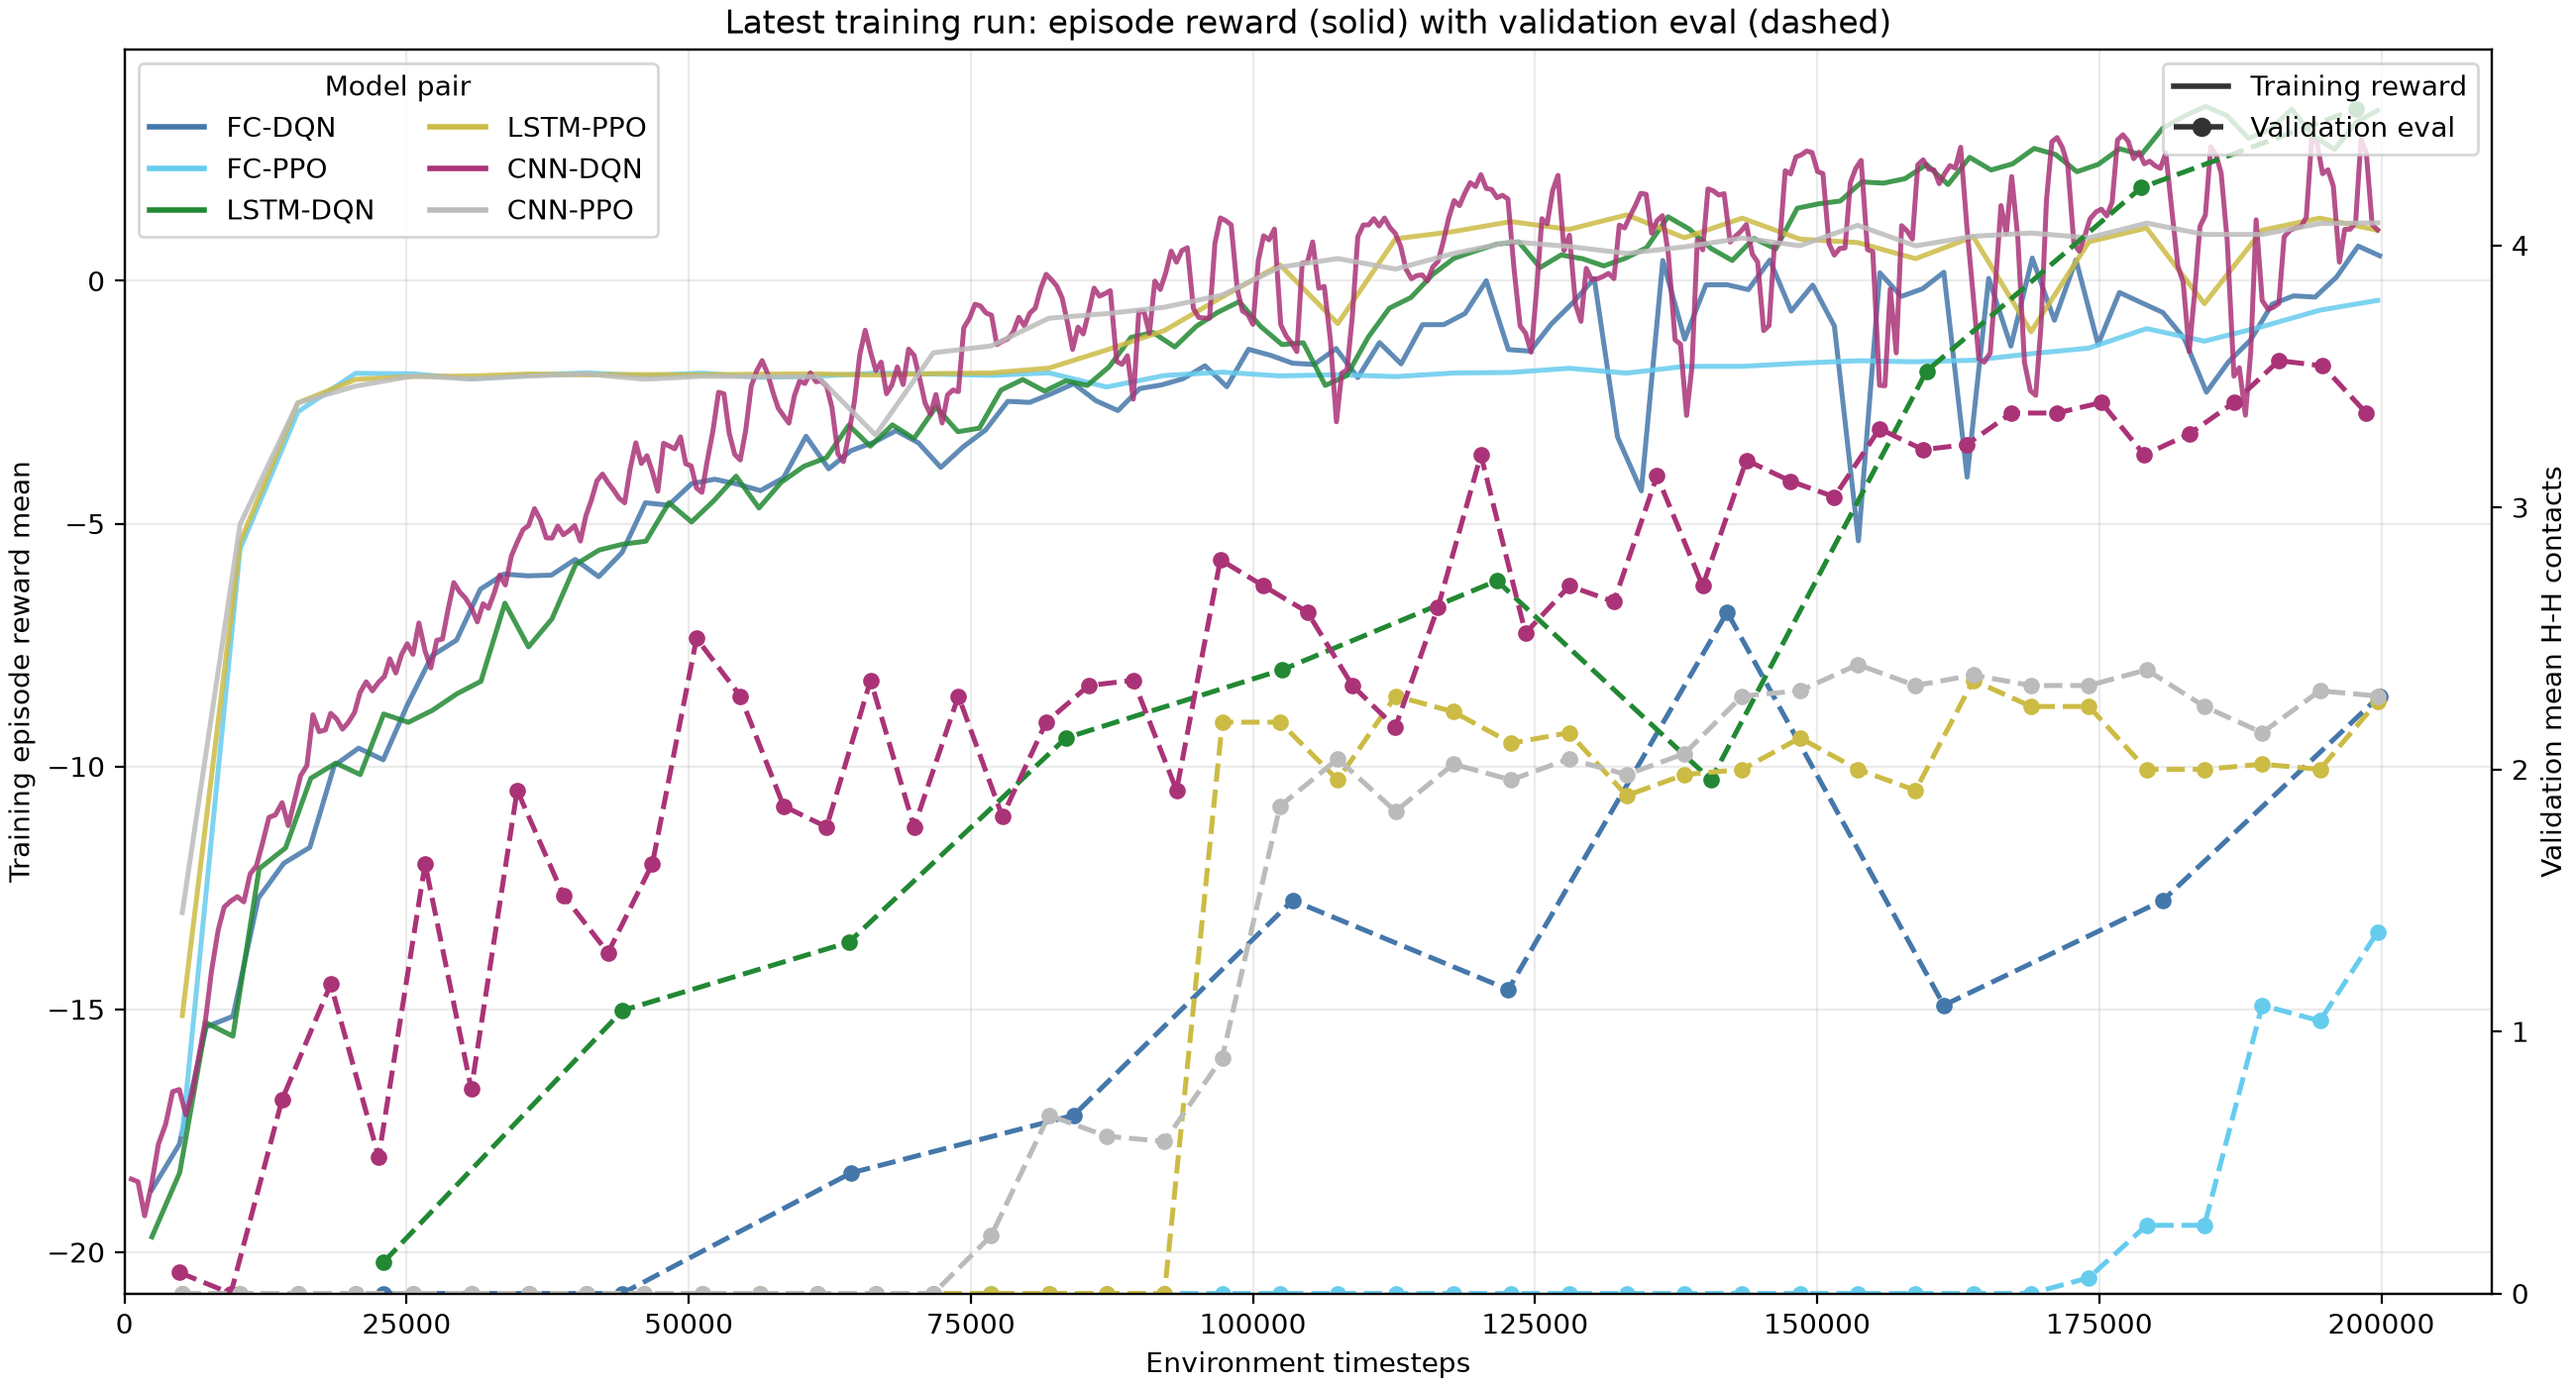
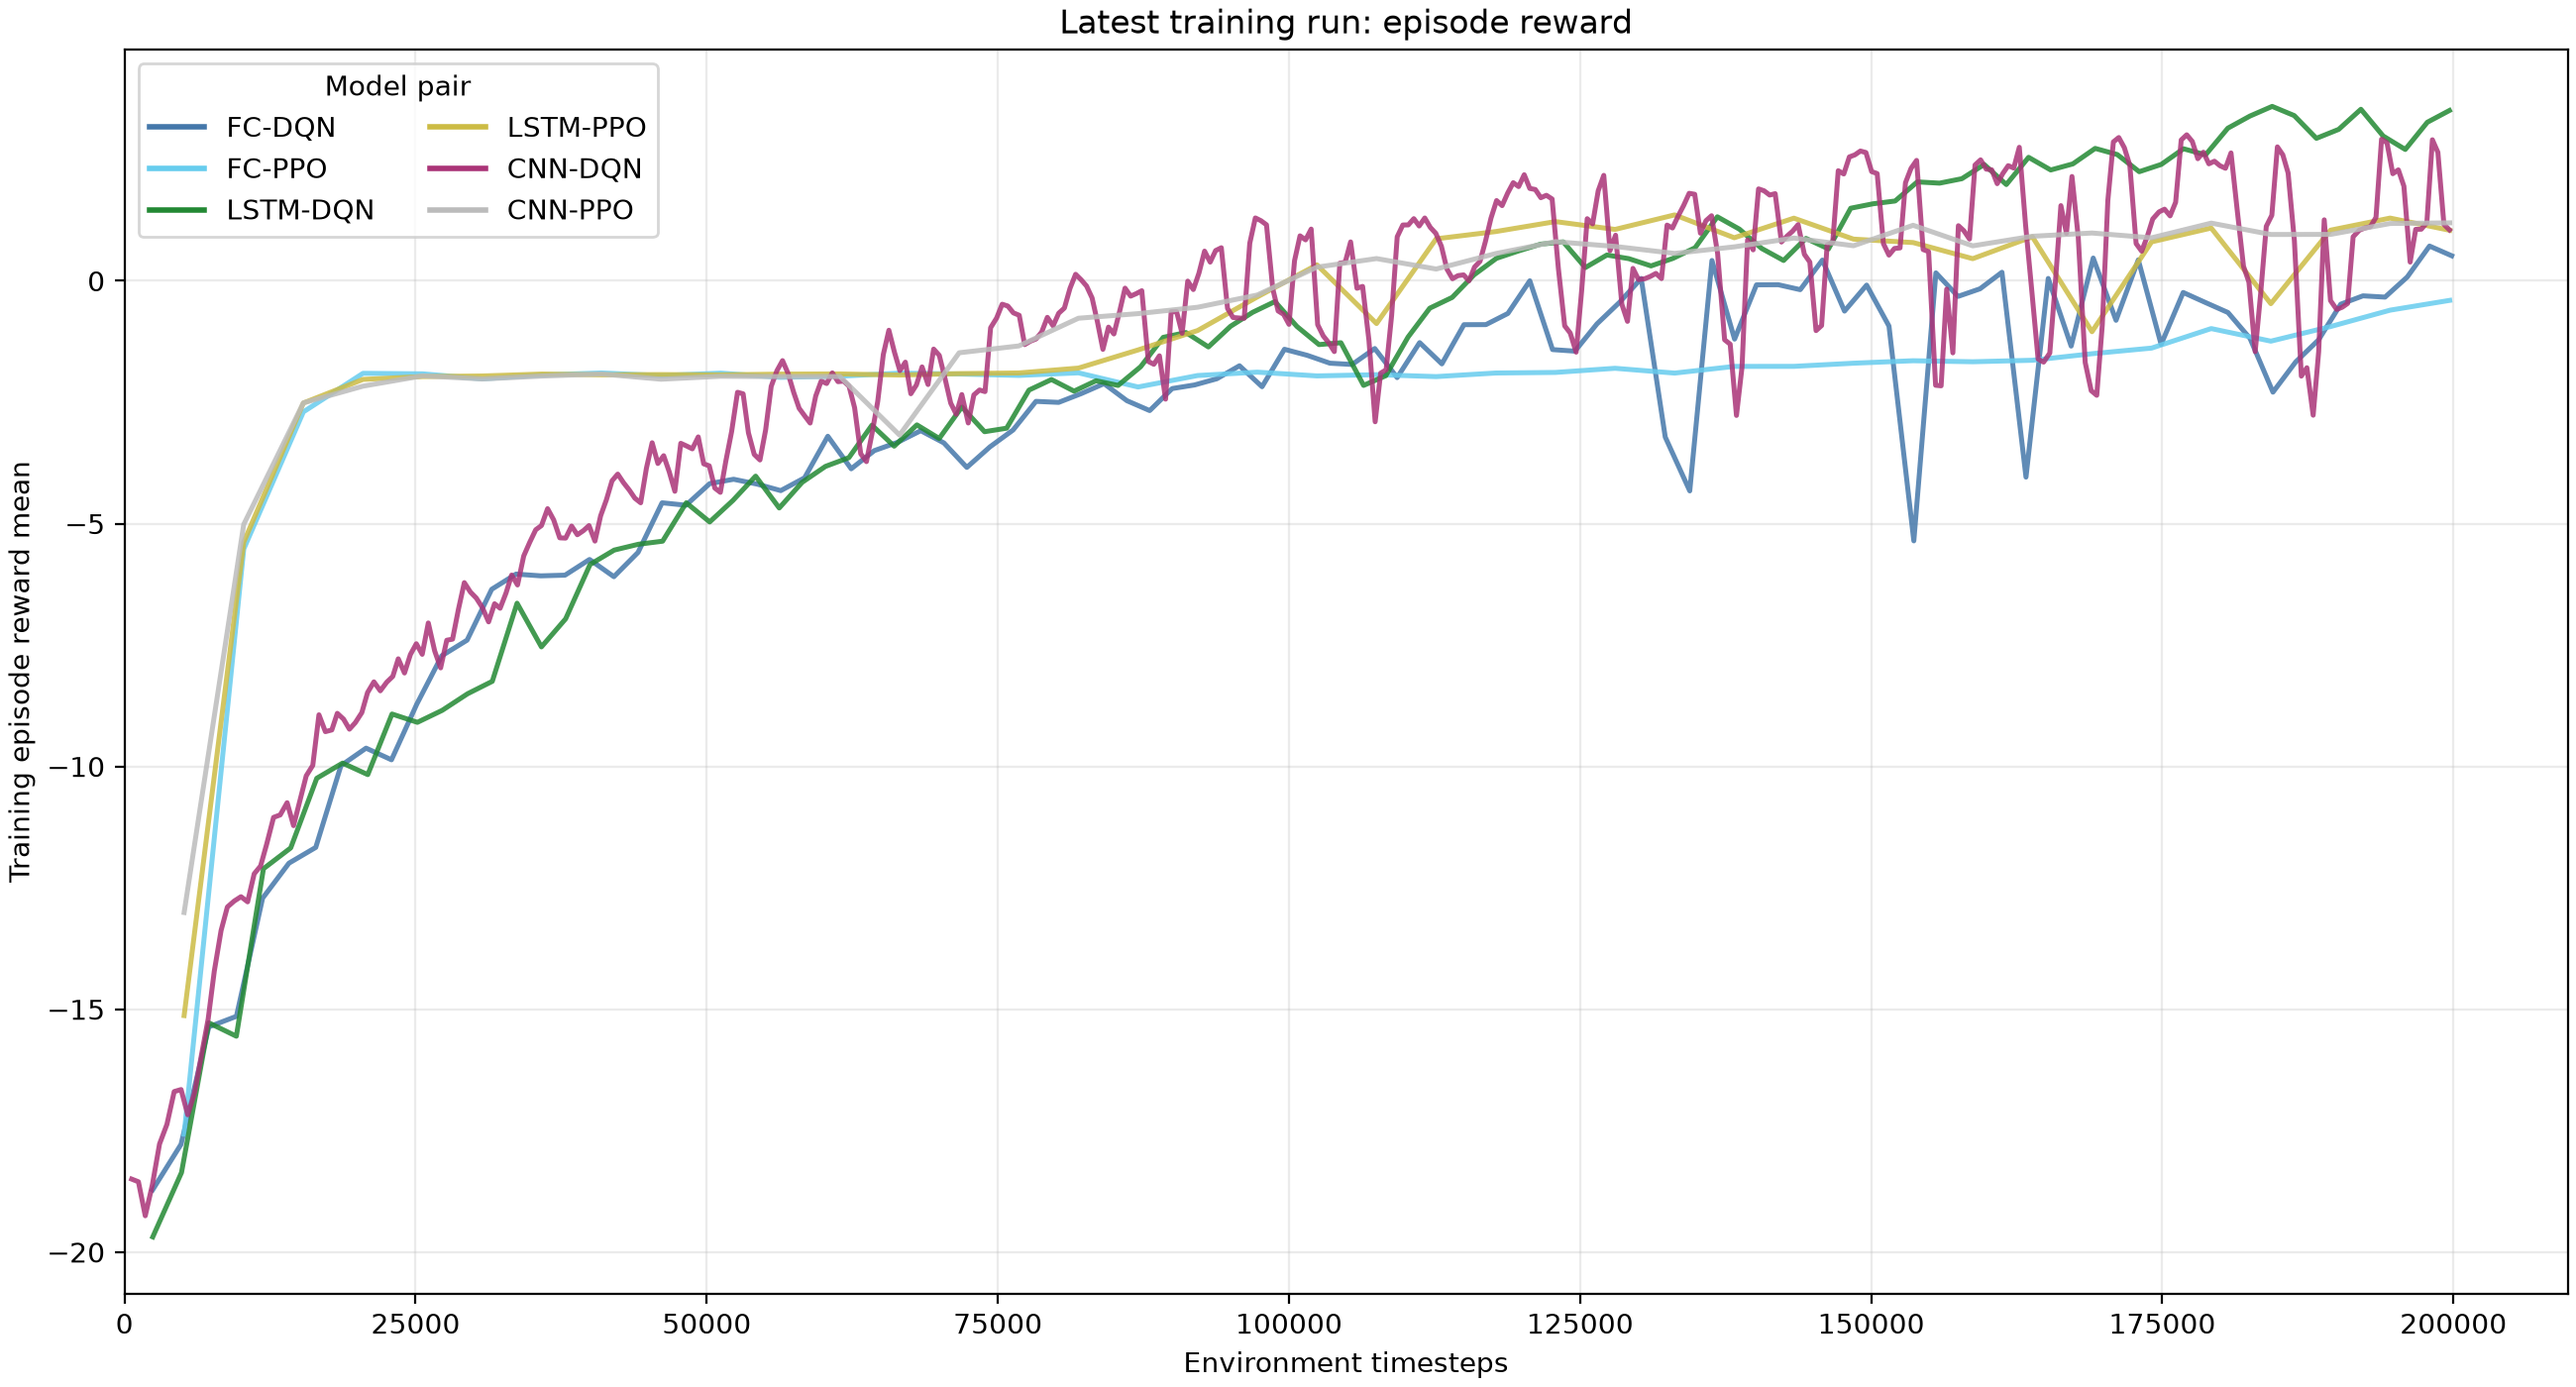
chart updates 1

diff --git a/Combined/generate_latest_charts.py b/Combined/generate_latest_charts.py
@@ -70,7 +70,7 @@ def load_latest_scalars(run_dir: Path) -> dict[str, list[tuple[int, float]]]:
     accumulator.Reload()
     tags = accumulator.Tags()["scalars"]
     result = {}
-    for tag in ("rollout/ep_rew_mean", "eval/score"):
+    for tag in ("rollout/ep_rew_mean",):
         if tag not in tags:
             raise ValueError(f"TensorBoard tag {tag!r} missing from {latest_event}")
         result[tag] = [
@@ -81,19 +81,14 @@ def load_latest_scalars(run_dir: Path) -> dict[str, list[tuple[int, float]]]:
 
 def plot_training_curves(output_path: Path) -> None:
     figure, reward_axis = plt.subplots(figsize=(13, 7), layout="constrained")
-    eval_axis = reward_axis.twinx()
 
     model_handles = []
     for network, algorithm, label, color in MODEL_PAIRS:
         run_dir = RUN_DIR / f"{network}-{algorithm}" / "seed7"
         scalars = load_latest_scalars(run_dir)
         rewards = sorted(scalars["rollout/ep_rew_mean"])
-        eval_scores = sorted(scalars["eval/score"])
-        if not rewards or not eval_scores:
-            raise ValueError(f"Training or eval curve is empty for {label}")
-
-        if not (run_dir / "eval_history.csv").exists():
-            raise FileNotFoundError(f"Missing evaluation history for {label}")
+        if not rewards:
+            raise ValueError(f"Training reward curve is empty for {label}")
 
         reward_axis.plot(
             [step for step, _ in rewards],
@@ -102,44 +97,15 @@ def plot_training_curves(output_path: Path) -> None:
             linewidth=1.8,
             alpha=0.85,
         )
-        eval_axis.plot(
-            [step for step, _ in eval_scores],
-            [score for _, score in eval_scores],
-            color=color,
-            linestyle="--",
-            marker="o",
-            markersize=5,
-            linewidth=1.8,
-        )
         model_handles.append(Line2D([0], [0], color=color, lw=2, label=label))
 
     reward_axis.set_xlabel("Environment timesteps")
     reward_axis.set_ylabel("Training episode reward mean")
-    eval_axis.set_ylabel("Validation mean H-H contacts")
-    reward_axis.set_title(
-        "Latest training run: episode reward (solid) with validation eval (dashed)"
-    )
+    reward_axis.set_title("Latest training run: episode reward")
     reward_axis.grid(alpha=0.25)
     reward_axis.set_xlim(left=0)
-    eval_axis.set_ylim(bottom=0)
     reward_axis.legend(
         handles=model_handles, title="Model pair", loc="upper left", ncol=2
-    )
-    eval_axis.legend(
-        handles=[
-            Line2D([0], [0], color="#333333", lw=2, label="Training reward"),
-            Line2D(
-                [0],
-                [0],
-                color="#333333",
-                lw=2,
-                linestyle="--",
-                marker="o",
-                label="Validation eval",
-            ),
-        ],
-        loc="upper right",
-        frameon=True,
     )
     figure.savefig(output_path, dpi=200)
     plt.close(figure)
@@ -160,41 +126,16 @@ def plot_final_comparison(
         float(rows_by_pair[(network, algorithm)]["mean_contacts"])
         for network, algorithm, _, _ in MODEL_PAIRS
     ]
-    completion = [
-        100 * float(rows_by_pair[(network, algorithm)]["completion_rate"])
-        for network, algorithm, _, _ in MODEL_PAIRS
-    ]
 
-    figure, (contacts_axis, completion_axis) = plt.subplots(
-        1, 2, figsize=(13, 5.5), layout="constrained"
-    )
-    for axis, values, title, ylabel, fmt, pad in (
-        (
-            contacts_axis,
-            contacts,
-            "Held-out test contacts",
-            "Mean H-H contacts (100 random sequences)",
-            "%.2f",
-            0.08,
-        ),
-        (
-            completion_axis,
-            completion,
-            "Completed folds",
-            "Completed episodes (%)",
-            "%.0f%%",
-            8,
-        ),
-    ):
-        bars = axis.bar(labels, values, color=colors)
-        axis.bar_label(bars, fmt=fmt, padding=3)
-        axis.set_title(title)
-        axis.set_ylabel(ylabel)
-        axis.set_ylim(0, max(values, default=0) + pad)
-        axis.tick_params(axis="x", rotation=25)
-        axis.grid(axis="y", alpha=0.25)
-        axis.set_axisbelow(True)
-    figure.suptitle("Final held-out results by model-algorithm pair")
+    figure, axis = plt.subplots(figsize=(9, 5.5), layout="constrained")
+    bars = axis.bar(labels, contacts, color=colors)
+    axis.bar_label(bars, fmt="%.2f", padding=3)
+    axis.set_title("Benchmark set results")
+    axis.set_ylabel("Mean H-H contacts (100 random sequences)")
+    axis.set_ylim(0, max(contacts, default=0) + 0.08)
+    axis.tick_params(axis="x", rotation=25)
+    axis.grid(axis="y", alpha=0.25)
+    axis.set_axisbelow(True)
     figure.savefig(output_path, dpi=200)
     plt.close(figure)
 

diff --git a/simulated_annealing.py b/simulated_annealing.py
@@ -126,6 +126,7 @@ def search(
     seed: int | None = None,
     progress_callback: Callable[[int, float, int], None] | None = None,
     progress_interval: int = 1_000,
+    time_budget_seconds: float | None = None,
 ) -> tuple[int, Coordinates]:
     """Return the best contact count and fold found by simulated annealing."""
     sequence = validate_sequence(sequence)
@@ -148,21 +149,37 @@ def search(
             "temperatures must be positive and final_temperature "
             "must not exceed initial_temperature"
         )
+    if time_budget_seconds is not None and (
+        not math.isfinite(time_budget_seconds) or time_budget_seconds <= 0
+    ):
+        raise ValueError("time_budget_seconds must be finite and positive")
 
+    start_time = time.perf_counter()
+    deadline = (
+        start_time + time_budget_seconds
+        if time_budget_seconds is not None
+        else None
+    )
     rng = random.Random(seed)
     current: Coordinates = tuple((index, 0) for index in range(len(sequence)))
     current_score = count_contacts(sequence, current)
     best = current
     best_score = current_score
-    start_time = time.perf_counter()
     best_improved = False
 
     for step in range(iterations):
+        elapsed = time.perf_counter() - start_time
+        if deadline is not None and elapsed >= time_budget_seconds:
+            break
         best_improved = False
         candidate = propose_move(current, rng)
         if candidate != current:
             candidate_score = count_contacts(sequence, candidate)
-            progress = step / max(1, iterations - 1)
+            progress = (
+                min(1.0, elapsed / time_budget_seconds)
+                if time_budget_seconds is not None
+                else step / max(1, iterations - 1)
+            )
             temperature = initial_temperature * (
                 final_temperature / initial_temperature
             ) ** progress
@@ -236,25 +253,39 @@ def main() -> None:
         default=0.01,
         help="ending temperature (default: 0.01)",
     )
+    parser.add_argument(
+        "--time-budget-ms",
+        type=float,
+        help="maximum annealing time in milliseconds (stops before the iteration limit)",
+    )
     parser.add_argument("--seed", type=int, default=None, help="random seed")
     args = parser.parse_args()
 
     try:
+        start_time = time.perf_counter()
         contacts, coords = search(
             args.sequence,
             iterations=args.iterations,
             initial_temperature=args.initial_temperature,
             final_temperature=args.final_temperature,
+            time_budget_seconds=(
+                args.time_budget_ms / 1_000
+                if args.time_budget_ms is not None
+                else None
+            ),
             seed=args.seed,
         )
     except ValueError as error:
         parser.error(str(error))
 
+    elapsed = time.perf_counter() - start_time
     print(f"Sequence: {args.sequence}")
     print(f"Moves: {coordinates_to_moves(coords) or '(none)'}")
     print(f"H-H contacts: {contacts}")
     print(f"Energy (negative contacts): {-contacts}")
     print(f"Coordinates: {coords}")
+    if args.time_budget_ms is not None:
+        print(f"Elapsed time: {elapsed * 1_000:.3f} ms")
 
 
 if __name__ == "__main__":

diff --git a/tests/test_simulated_annealing.py b/tests/test_simulated_annealing.py
@@ -46,6 +46,20 @@ def test_search_is_reproducible_for_a_fixed_seed():
     assert first == second
 
 
+def test_search_accepts_a_time_budget():
+    contacts, coords = search("HHHHHH", time_budget_seconds=1e-9, seed=7)
+
+    assert len(coords) == 6
+    assert len(set(coords)) == 6
+    assert contacts == count_contacts("HHHHHH", coords)
+
+
+@pytest.mark.parametrize("time_budget", [0, -1, float("inf"), float("nan")])
+def test_search_rejects_invalid_time_budget(time_budget):
+    with pytest.raises(ValueError, match="time_budget_seconds"):
+        search("HHHHHH", time_budget_seconds=time_budget)
+
+
 def test_move_proposals_preserve_self_avoiding_bonded_walk():
     coords = tuple((index, 0) for index in range(10))
     rng = random.Random(15)

diff --git a/README.md b/README.md
@@ -20,7 +20,8 @@ python simulated_annealing.py HPHPPHHPHH --iterations 100000 --seed 7
 
 It prints the best fold found, its non-bonded H-H contact count, and energy
 (negative contact count). Run `python simulated_annealing.py --help` to see
-temperature and iteration options.
+temperature, iteration, and wall-clock budget options. To limit a run to a
+15-millisecond annealing budget, use `--time-budget-ms 15`.
 
 MCTS uses the same `--iterations` and `--seed` options and prints the same
 fold metrics:
